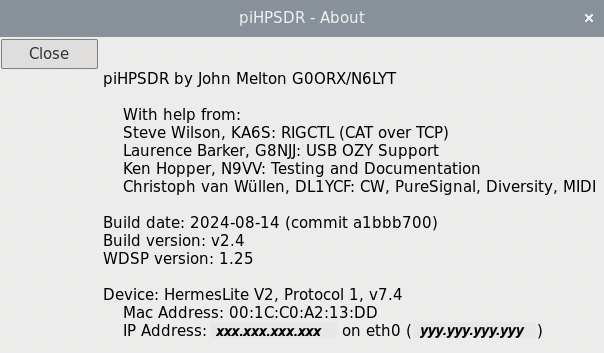
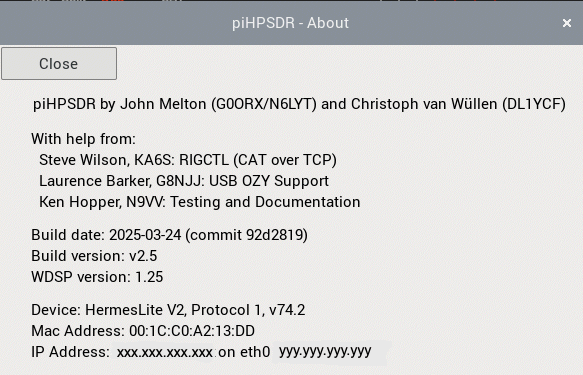
Update of the Manual

Changed region(s): [[0.0, 0.0312, 1.0, 0.5609], [0.0309, 0.8102, 0.8645, 0.966], [0.0309, 0.5921, 0.741, 0.779]]

diff --git a/release/LatexManual/piHPSDR-Manual.tex b/release/LatexManual/piHPSDR-Manual.tex
@@ -569,7 +569,14 @@ sliders. Although they are largely self-explanatory, I take the occasion to desc
 The \rett{AF} slider controls the audio volume of the active receiver, from -40 to 0 dB. If moved to the
 far left (at -40 dB) the audio is muted completely.
 
-The \rett{AGC} slider controls the AGC of the currently active receiver, it goes from 0 to 120 dB.
+The \rett{AGC} slider controls the AGC of the currently active receiver, it goes from 0 to 120 dB. There
+is a green horizontal line (with a letter G at the left edge) in the RX panadapter, and the \rett{AGC}
+slider should be positioned such that the green line is at the level (or slightly above) the noise
+floor. Note that the AGC value does not only depend on the attenuation/gain in the RF front end
+(e. g. the position of the \rett{ATT} slider) but also on the current filter bandwidth (for a filter
+10 times narrower the \rett{AGC} value can be increased by 10 dB). Note that if the green line
+is higher up than the signals you want to receive, they will probably not be heard in the
+RX audio.
 
 The \rett{ATT} slider controls a programmable attenuator in the RF front end of the active receiver. For
 HPSDR hardware, it goes from 0 to 31 dB. The HermesLite-II has a slider named \rett{RF} at this place,
@@ -578,7 +585,17 @@ since this radio has a programmable preamplifier/attenuator that goes from -12 t
 
 The \rett{Mic} slider adds an amplification from -12 to +50 dB to the audio signal fed to the transmitter.
 This amplification is purely done numerically (no effect on any hardware) and applies to the audio signal
-no matter where it comes from, let it be real microphones or virtual audio cable.
+no matter where it comes from, let it be real microphones or virtual audio cable. For digital modes using
+virtual audio cables, one normally uses no compression, no TX equaliser etc. and the \rett{Mic} slider
+should stay at +0 dB. For most setups, this also applies if one uses the TX compressor since this will
+automatically activate an auto-leveler. However, if no compression etc. is used in the TX chain, then
+it is usually required to advance the \rett{Mic} slider to about +10 dB. The reason is simply, that
+for most audio gear one takes care that one stays below -10 dBFS (FS stands for full scale). The best
+way to level the microphone in SSB modes, is to display the TX peak ALC value in the meter. Then one
+decreases the \rett{Mic} gain if the value if close to zero, and one increases the \rett{Mic} gain if
+the peak ALC value is substantially below zero during normal speech. Not only your transmission will
+sount ``thin'' if the \rett{Mic} gain is too low, adaptive predistortion (PURESIGNAL) also requires
+that TX ALC values peak close to zero.
 
 The \rett{TX Drv} slider controls the RF output power. It goes from 0 to 100 and is meant in percent. That is,
 a 5-Watt radio such as the HermesLite-II should transmit 5 Watts if this slider is at position 100. See the
@@ -977,7 +994,11 @@ in addition, SWR protection is enabled in the \bltt{TX} menu, the output
 drive  will be reduced to zero if the SWR exceed that threshold.
 Furthermore, the ALC (automatic level control) value of the transmitter is
 shown. Negative ALC values (at least in peak mode) indicate that the volume of the TX input audio
-could be increased to get full output  power.
+could be increased to get full output  power. During TX (and also during RX when using
+voice control (VOX), the actual level of the TX audio  signal is shown through
+the small \rett{MicLvl} bar. The audio level is in dB from $-40\ldots0$ dB. Note that
+this refers to the peak level of the  incoming ``TX microphone'' audio data, there can
+be further amplification in the TX  chain through the \bltt{Mic} slider.
 
 Further info on the meters (e.g. switching between ,,peak'' and ,,average'' reporting)
 is described in the \bltt{Meter} menu.
@@ -3382,7 +3403,7 @@ no functional difference between the \bltt{Tune}, \bltt{Tune Full} and
 \bltt{Tune Mem} commands.
 
 The \bltt{OC} bit pattern you see in Fig. \ref{fig:OCMenu} is what you automatically
-get when selecting the 
+get when selecting the
 \texttt{N2ADR} filter board in the \bltt{Radio} menu
 (this is usually the
 case if you are working with a HermesLite-II radio). This means that
